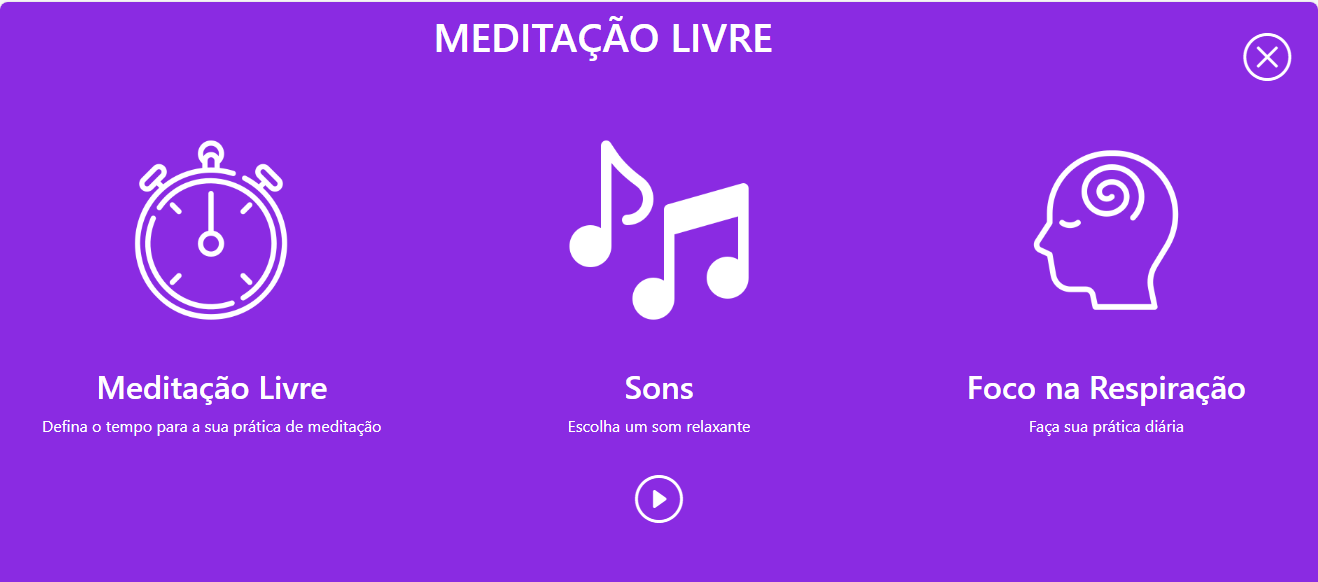
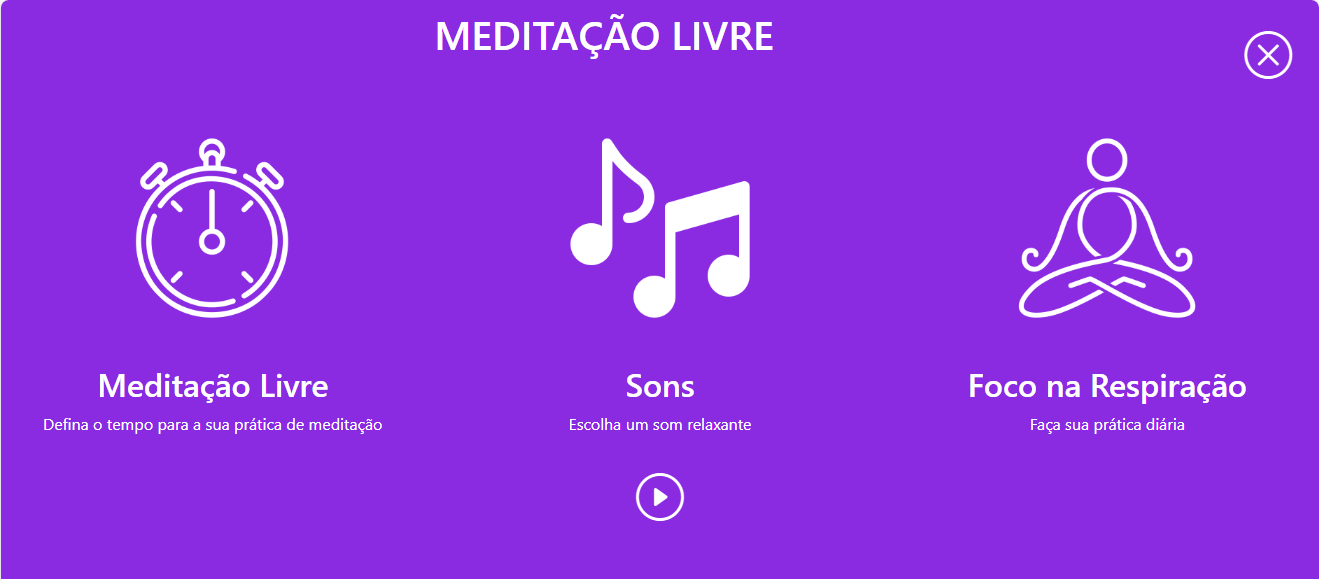
imagens meditação livre

diff --git a/codigo-fonte/meditacao-guiada/Index-meditacao-livre.html b/codigo-fonte/meditacao-guiada/Index-meditacao-livre.html
@@ -32,7 +32,7 @@
                     <button type="button" class="btn btn-default btn-circle icon"><i class="bi-play-circle"></i></button>
                 </div>
                 <div class="col-md-4 text-center">
-                    <img src="Imagens/mind.png" class="filter mx-auto d-block" alt="prática"/>
+                    <img src="Imagens/meditation.png" class="filter mx-auto d-block" alt="prática"/>
                     <h2>Foco na Respiração</h2>
                     <p>Faça sua prática diária</p>
                 </div>
